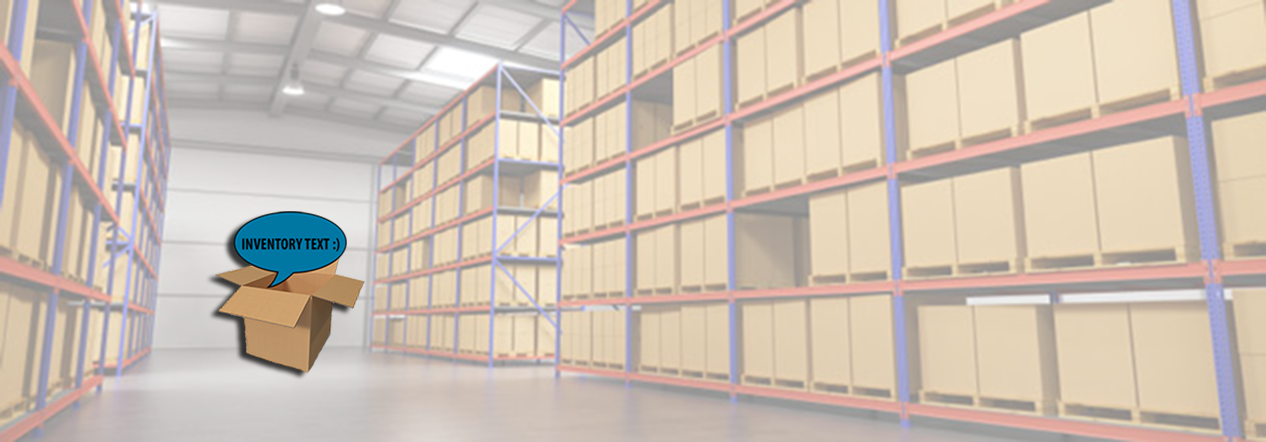
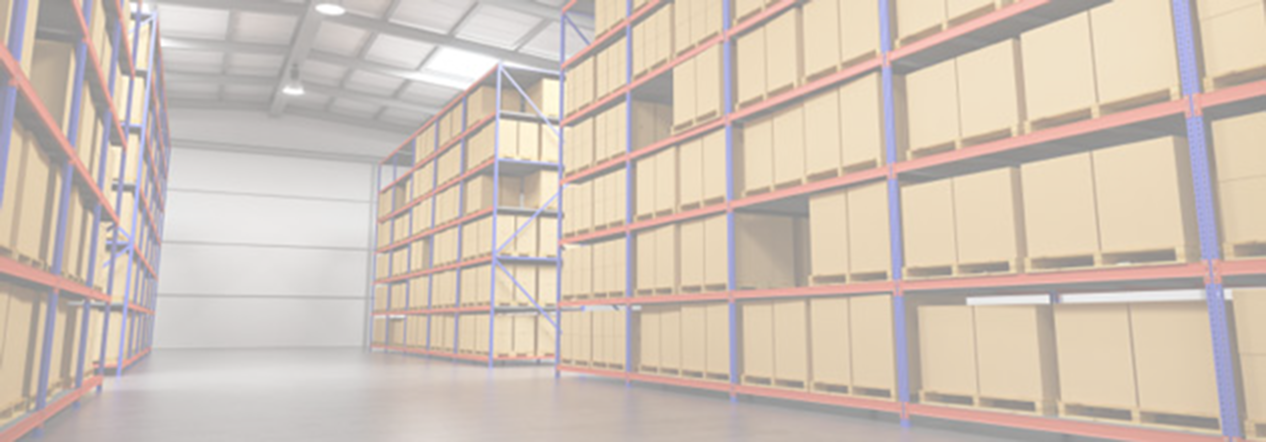
added image to launch page - css image url is broken   https://app.asana.com/0/42983347910373/46061359778936

Changed region(s): [[0.154, 0.4706, 0.3081, 0.8529]]

diff --git a/public_html/lib/css/launch.css b/public_html/lib/css/launch.css
@@ -3,16 +3,20 @@ html {
 }
 
 .site {
-	background: url("../lib/images/frontimages.png") no-repeat;
+
 	width: 100%;
 	height: 50%;
 	background-position: 0% 0%;
 }
 
-.gradient {
-	width: 100%;
-	background: linear-gradient(170deg, #81F5FF 0%, #B3C1CC 100%);
+.warehouse {
+	background-image: url("images/frontimage.png") no-repeat;
 }
+
+/*.gradient {*/
+	/*width: 100%;*/
+	/*background: linear-gradient(170deg, #81F5FF 0%, #B3C1CC 100%);*/
+/*}*/
 
 .placeholder {
 	padding-bottom: 6%;

diff --git a/public_html/pages/launch-page.php b/public_html/pages/launch-page.php
@@ -13,14 +13,12 @@ if(session_status() !== PHP_SESSION_ACTIVE) {
 	</head>
 	<body class="site">
 		<div class="site-content">
-
 			<header>
 				<?php require_once "header.php"; ?>
 			</header>
-
-			<img class="center-block" src="../lib/images/frontimage.png" alt="Logo Image">
-
-			<h2 class="welcome">Welcome your new employee.</h2>
+			<div class="warehouse">
+				<h2 class="welcome">Welcome your new employee.</h2>
+			</div>
 		</div>
 		<main class="home">
 
